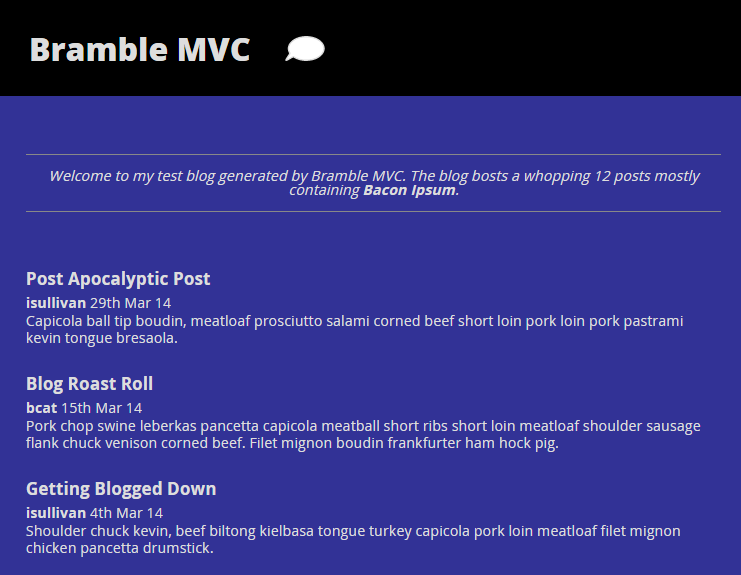
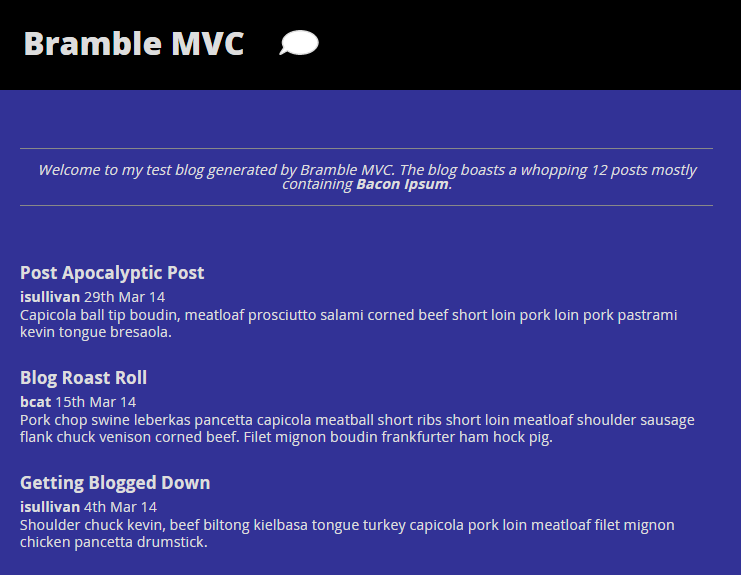
fixed spelling mistake

diff --git a/lib/view/blogpage.html b/lib/view/blogpage.html
@@ -4,7 +4,7 @@
 
 <section id="post-list">
     {% if showIntro %}
-        <p class="intro">Welcome to my test blog generated by Bramble MVC. The blog bosts a whopping {{ numberOfPosts }} posts mostly containing <a href="http://baconipsum.com/">Bacon Ipsum</a>.</p>
+        <p class="intro">Welcome to my test blog generated by Bramble MVC. The blog boasts a whopping {{ numberOfPosts }} posts mostly containing <a href="http://baconipsum.com/">Bacon Ipsum</a>.</p>
     {% endif %}
     
 	{% for post in posts %}
